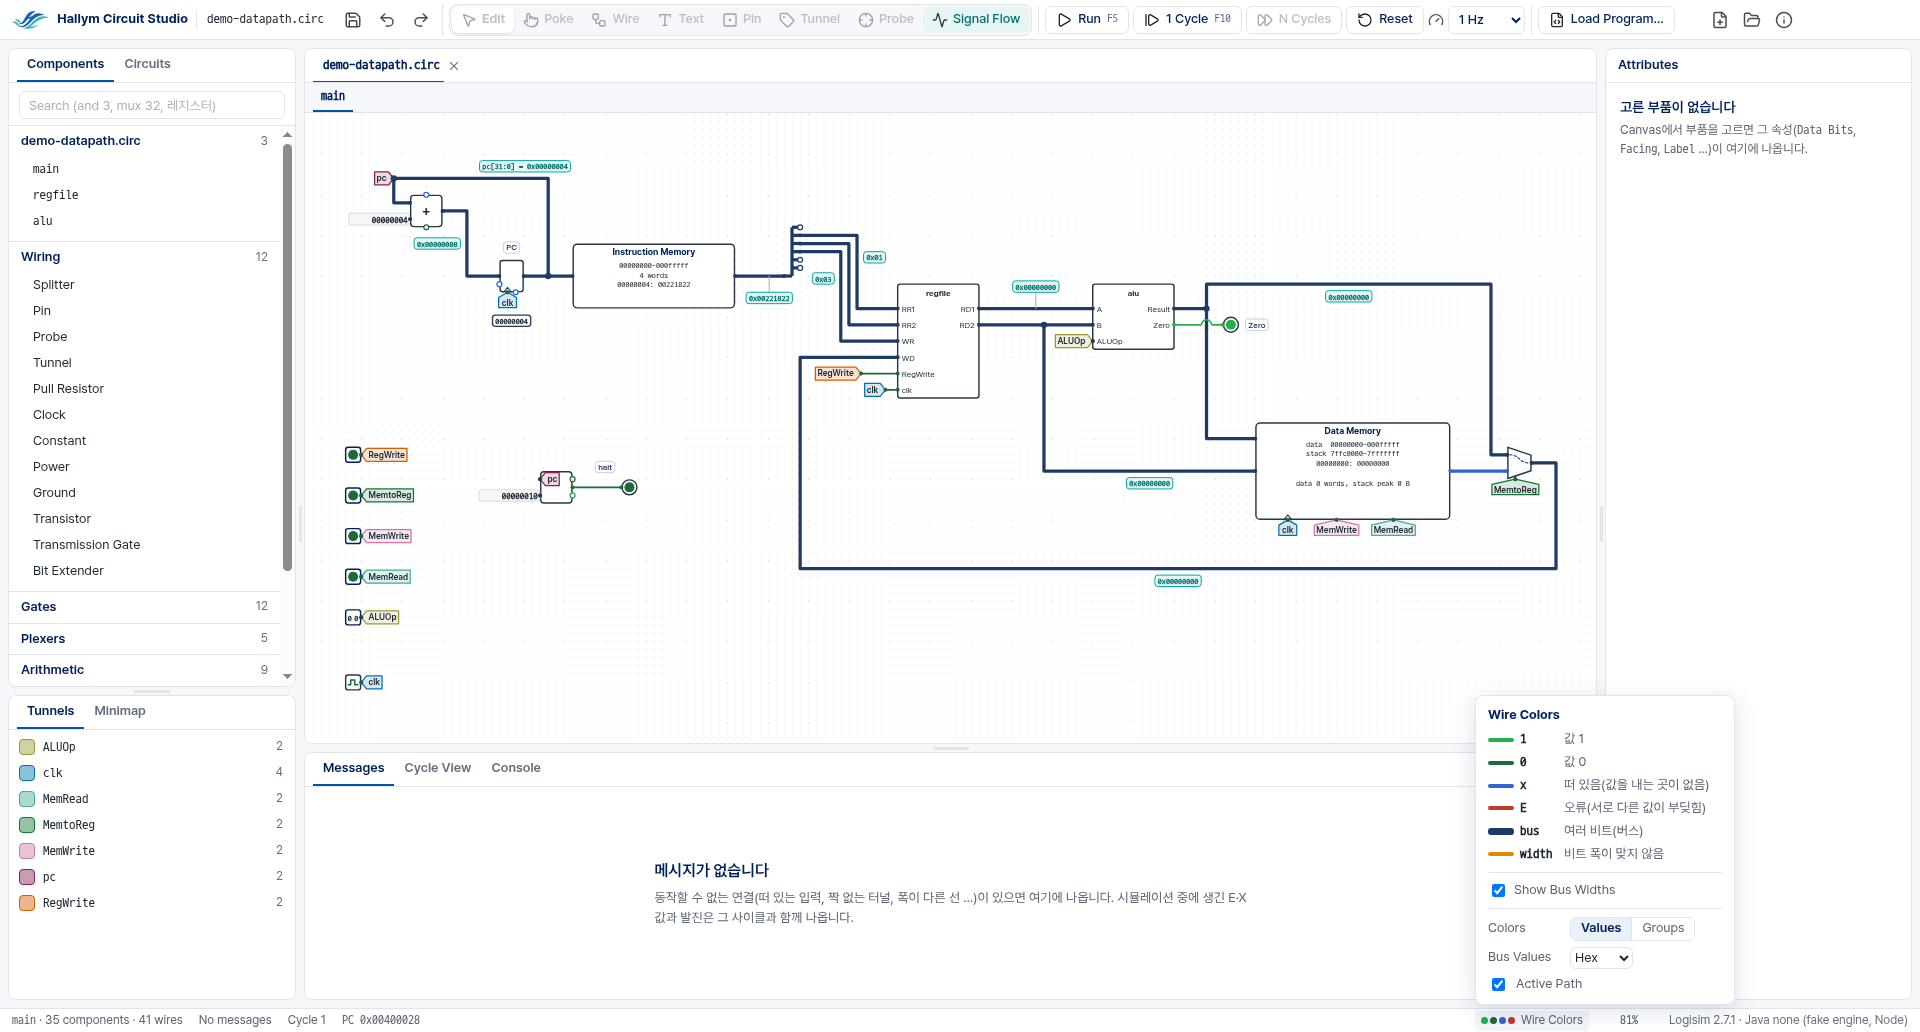
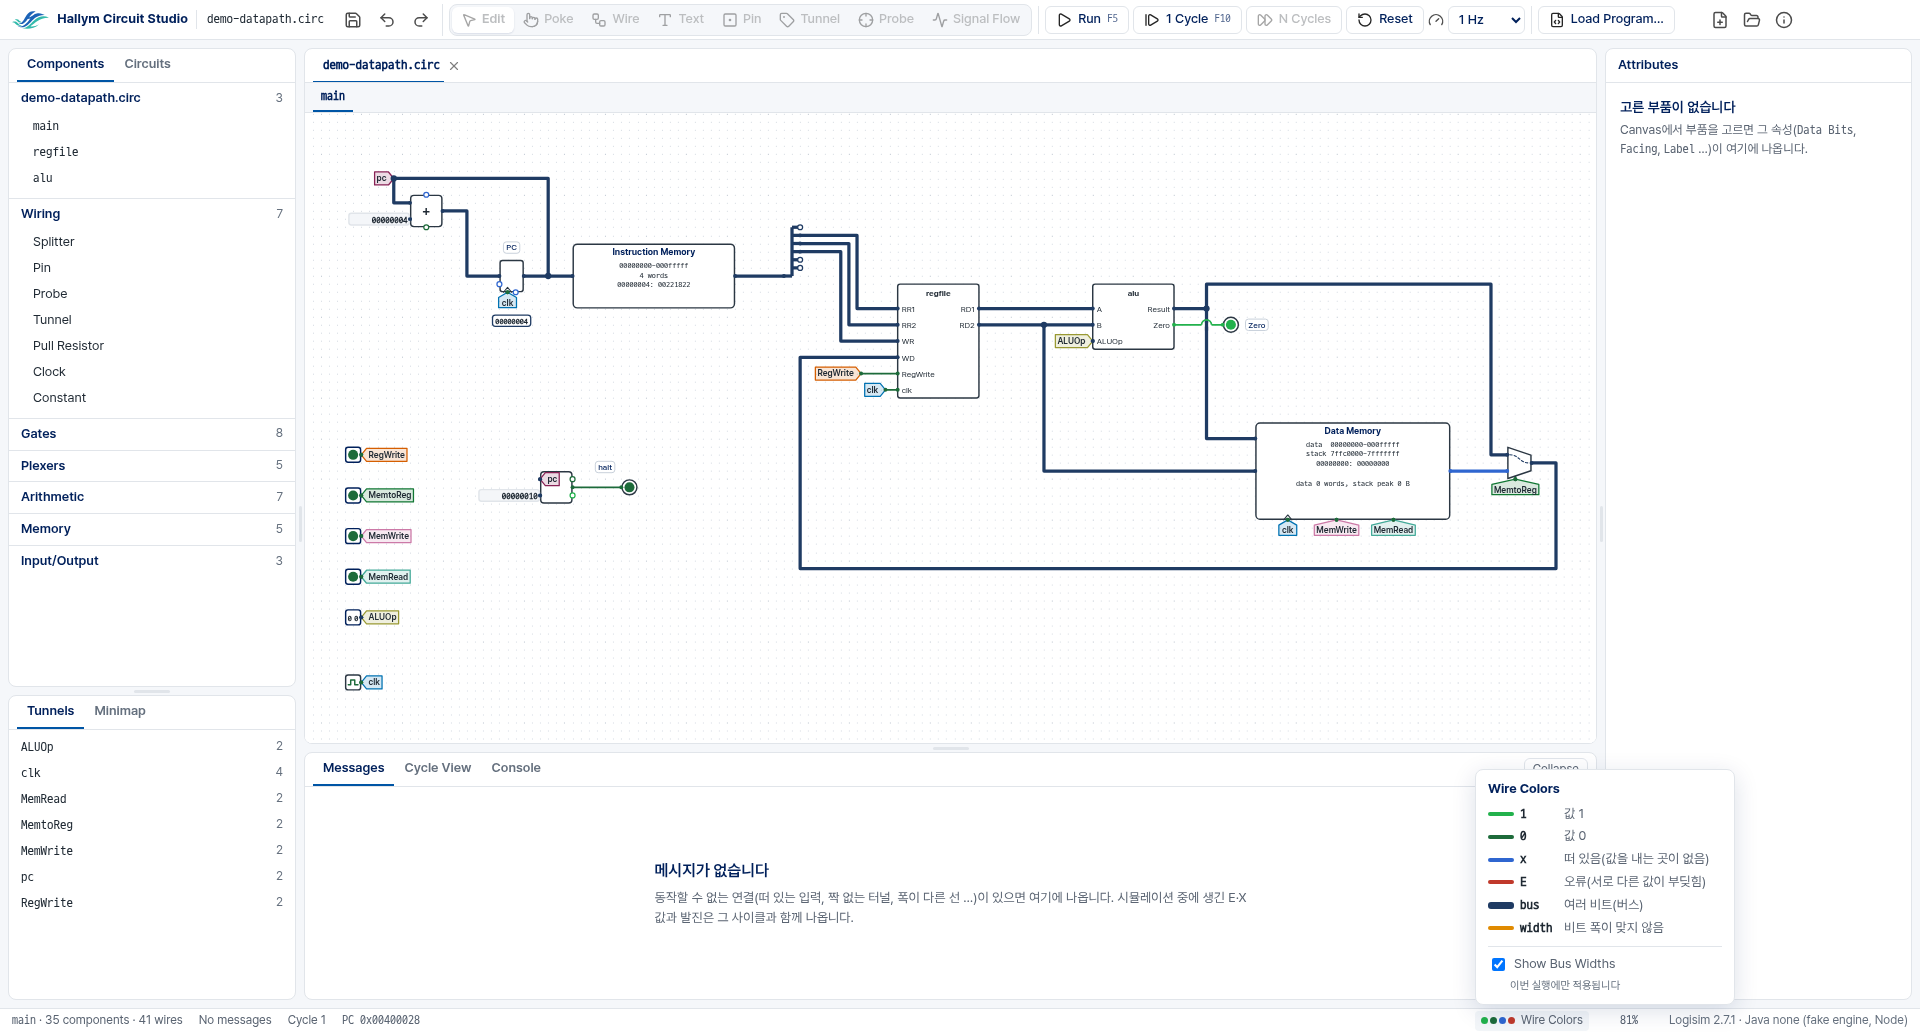
Capture the recovery question (recover-dialog.png) and the legend's run-only note

diff --git a/electron/tools/capture-screens.ts b/electron/tools/capture-screens.ts
@@ -17,7 +17,7 @@
 
    SCREENS_OUT: write somewhere else. */
 
-import { mkdirSync, readFileSync, writeFileSync } from 'node:fs';
+import { copyFileSync, mkdirSync, readFileSync, utimesSync, writeFileSync } from 'node:fs';
 import path from 'node:path';
 
 import { answerOpen, canvasSettled, DATAPATH, launch, openFile, repo, root, sample, type Running } from '../tests/e2e/harness.ts';
@@ -437,6 +437,25 @@ for (const [name, size, scale] of [
   await drawn(r);
   if (name === 'narrow') await r.page.locator('.upper').getByRole('tab', { name: 'Attributes' }).click();
   await shot(r, name);
+  await r.close();
+}
+
+// A recovery file beside the file being opened (N-19, D-152): the question before it opens, over the file on
+// show.  The recovery file's time is fixed (2026-09-28 14:05, Seoul) so the same code gives the same pixels.
+{
+  const r = await launch(FHD, { env: { TZ: 'Asia/Seoul' } });
+  const { page } = r;
+  await openFile(r, sample(r.dir, DATAPATH));
+  await drawn(r);
+  const lab3 = sample(r.dir, 'tests/circ/gates.circ', 'lab3.circ');
+  copyFileSync(lab3, `${lab3}.hcs-recover`);
+  const at = Date.parse('2026-09-28T14:05:31+09:00') / 1000;
+  utimesSync(lab3, at - 3600, at - 3600);
+  utimesSync(`${lab3}.hcs-recover`, at, at);
+  await answerOpen(r.app, lab3);
+  await page.keyboard.press('Control+o');
+  await page.locator('dialog.ask', { hasText: '저장하지 않은 편집이 있습니다' }).waitFor();
+  await shot(r, 'recover-dialog');
   await r.close();
 }
 

diff --git a/electron/docs/screens/README.md b/electron/docs/screens/README.md
@@ -22,6 +22,7 @@ Every round, **all of them are retaken and overwritten** under the same names; n
 | `about-licenses.png` | Licenses: every notice, Hallym MIPS's BSD 3-Clause text open | Licenses, the third entry |
 | `dialog-error.png` | The window's own dialog for an error, in the window's words (not the engine's): a sentence title, `File: lab3.circ` (the name only), what happened and what to do, one button (Close); **no character anywhere** while it is up (the Canvas's guide is hidden too); the backdrop darkens the window | Ctrl+O → a file that is not there |
 | `engine-restarted.png` | The engine ended (a crash) and started again: the band ("엔진이 멈춰서 다시 시작했습니다 · 열려 있던 파일 2개를 닫았습니다"), the first screen with its character hidden while the band says something went wrong | the engine killed from the test |
+| `recover-dialog.png` | Opening a file with a recovery file beside it (N-19: the app ended before its edits were saved): the question before anything opens, facts only — "저장하지 않은 편집이 있습니다", `File: lab3.circ` on its own line, when the edits were written (`2026-09-28 14:05`), what each answer does, the recovery file's name in the facts box (`복구 파일: lab3.circ.hcs-recover`); Discard / Recover (Recover the primary one; Esc is neither: nothing opens); **no character anywhere** (it follows an abnormal end); the file on show behind (`demo-datapath.circ`) | `lab3.circ` (a copy of `tests/circ/gates.circ`) with its recovery file beside it, the times fixed (Seoul), Ctrl+O |
 | `engine-failed.png` | No engine: "엔진을 시작하지 못했습니다" with what was tried — "엔진 파일이 없습니다: hcs-engine.jar" and where (`/opt/hcs/hcs-engine.jar`), Close / Try Again, no character anywhere; the red band behind; the status bar | `HCS_ENGINE_JAR` pointing at nothing |
 | `messages-list.png` | Messages (N-13): a broken circuit (`electron/tests/fixtures/broken-datapath.circ`) after one cycle — three groups by kind with a count each (Clock not connected, Tunnel without a pair, Undefined write input), each message the engine's Korean sentence with the student's names in English and no particle right after a name, "혹시 RegWrite?" (the one near name), where on the right (`main`, `main · Cycle 0` for what the simulation found); the chosen message marked; the tab's count badge (3) and the status bar's `3 messages`; **no character anywhere** while there are messages (the Canvas's guide hidden, its place kept). The fake engine answers with the real engine's words (`tests/fixtures/messages.json`, `tools/diag-fixture.ts`) | Ctrl+O → the broken circuit, 1 Cycle, the second message |
 | `cycle-pinned.png` | The same file, the message found at cycle 0 (Undefined write input) chosen: the Cycle View comes forward at Cycle 0 (`Cycle 0 / 1`), the message's cause `MemWrite` as the table's top row (temporary: the × removes it; not saved) with its cycle-0 cell marked; Reset or the message leaving the list takes it away (v1 D-05, V-03) | the X_WRITE_CONTROL message |
@@ -29,7 +30,7 @@ Every round, **all of them are retaken and overwritten** under the same names; n
 | `canvas-100.png` | The Canvas at 100 % after 1 Cycle: the PC register's value chip (`00000004`) below it, clear of its port rings and the `clk` tunnel; the Instruction Memory's lines from the engine (`00000004: 00221822`); the `pc` tunnel the .circ puts inside the Comparator drawn over the Comparator's fill (every fill first, then outlines and names); tunnel names in one size; splitter arm ranges on the spine's far side; the adder's open carry ports as rings; a jump where wires cross; connection dots; no body word under 8 px (the register's `reg`) | 1 Cycle, 100 % |
 | `canvas-150.png` | 150 %: the same, closer; the register file's own appearance (the student's), its tunnels | 150 % |
 | `canvas-400.png` | 400 %: lines twice as thick as at 100 % (not four times); port names outside the parts, 3 px or more clear of the wires' strokes (`sum` above its wire), not repeating the body's D and Q | 400 % |
-| `canvas-legend.png` | Wire Colors: 1, 0, x, E, bus, width, each in the colour the wires use, what it means in Korean (값 1, 떠 있음(값을 내는 곳이 없음) …); Show Bus Widths; under it the overlays' rows (N-15): Colors Values / Groups, Bus Values (Hex), Active Path. At the fitted 81 % the arm ranges and bus widths (under 8 px) are left out; the bus value chips stay, off the wires | Ctrl+0, Wire Colors |
+| `canvas-legend.png` | Wire Colors: 1, 0, x, E, bus, width, each in the colour the wires use, what it means in Korean (값 1, 떠 있음(값을 내는 곳이 없음) …); Show Bus Widths; under it the overlays' rows (N-15): Colors Values / Groups, Bus Values (Hex), Active Path; last "이번 실행에만 적용됩니다" (N-19: settings are for this run only). At the fitted 81 % the arm ranges and bus widths (under 8 px) are left out; the bus value chips stay, off the wires | Ctrl+0, Wire Colors |
 | `canvas-inside.png` | Inside the register file instance (double click): the crumbs `main › regfile`, the subcircuit drawn with that instance's own values -- each input pin inside shows what the parent's wire carries at its port (RR1 `00001`, RR2 `00010`, WR `00011` …) | double click on regfile |
 | `ref-mips-fhd.png` | ref-mips (715 parts, 580 tunnels) at a 1920×1080 lab PC, fitted: it does not fit even at the 25 % floor, so the view starts at its top-left corner with the fit margin (the Minimap gives the whole, N-12); names under 8 px are left out | Ctrl+O → `tests/mips/ref-mips.circ` |
 | `ref-mips-memory.png` | ref-mips at 80 % over the Data Memory (both regions, their use) and the Console | 100 % |
